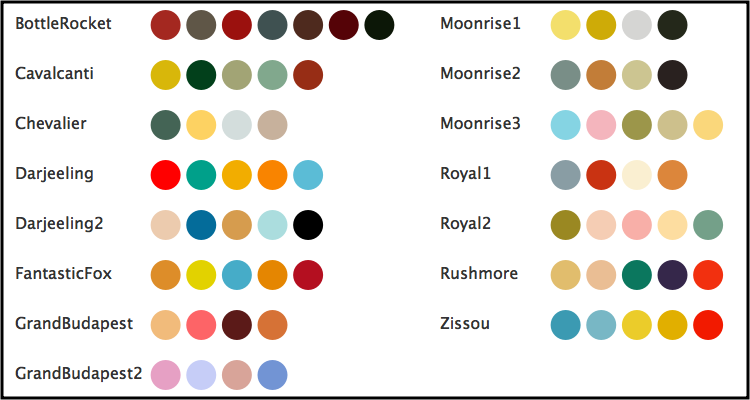
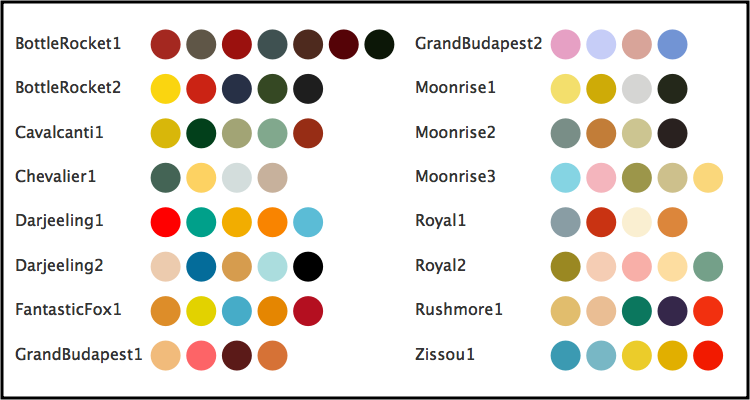
Update for d3 version 4

diff --git a/wes_scales.js b/wes_scales.js
@@ -1,17 +1,17 @@
-// d3 scales for wes anderson palettes
-d3.scale.BottleRocket1=function(){return d3.scale.ordinal().range(["#A42820","#5F5647","#9B110E","#3F5151","#4E2A1E","#550307","#0C1707"]);}
-d3.scale.BottleRocket2=function(){return d3.scale.ordinal().range(["#FAD510","#CB2314","#273046","#354823","#1E1E1E"]);}
-d3.scale.Cavalcanti1=function(){return d3.scale.ordinal().range(["#D8B70A","#02401B","#A2A475","#81A88D","#972D15"]);}
-d3.scale.Chevalier1=function(){return d3.scale.ordinal().range(["#446455","#FDD262","#D3DDDC","#C7B19C"]);}
-d3.scale.Darjeeling1=function(){return d3.scale.ordinal().range(["#FF0000","#00A08A","#F2AD00","#F98400","#5BBCD6"]);}
-d3.scale.Darjeeling2=function(){return d3.scale.ordinal().range(["#ECCBAE","#046C9A","#D69C4E","#ABDDDE","#000000"]);}
-d3.scale.FantasticFox1=function(){return d3.scale.ordinal().range(["#DD8D29","#E2D200","#46ACC8","#E58601","#B40F20"]);}
-d3.scale.GrandBudapest1=function(){return d3.scale.ordinal().range(["#F1BB7B","#FD6467","#5B1A18","#D67236"]);}
-d3.scale.GrandBudapest2=function(){return d3.scale.ordinal().range(["#E6A0C4","#C6CDF7","#D8A499","#7294D4"]);}
-d3.scale.Moonrise1=function(){return d3.scale.ordinal().range(["#F3DF6C","#CEAB07","#D5D5D3","#24281A"]);}
-d3.scale.Moonrise2=function(){return d3.scale.ordinal().range(["#798E87","#C27D38","#CCC591","#29211F"]);}
-d3.scale.Moonrise3=function(){return d3.scale.ordinal().range(["#85D4E3","#F4B5BD","#9C964A","#CDC08C","#FAD77B"]);}
-d3.scale.Royal1=function(){return d3.scale.ordinal().range(["#899DA4","#C93312","#FAEFD1","#DC863B"]);}
-d3.scale.Royal2=function(){return d3.scale.ordinal().range(["#9A8822","#F5CDB4","#F8AFA8","#FDDDA0","#74A089"]);}
-d3.scale.Rushmore1=function(){return d3.scale.ordinal().range(["#E1BD6D","#EABE94","#0B775E","#35274A","#F2300F"]);}
-d3.scale.Zissou1=function(){return d3.scale.ordinal().range(["#3B9AB2","#78B7C5","#EBCC2A","#E1AF00","#F21A00"]);}
+// d3 v4 scales for wes anderson palettes
+d3.scaleBottleRocket1=function(){return d3.scaleOrdinal().range(["#A42820","#5F5647","#9B110E","#3F5151","#4E2A1E","#550307","#0C1707"]);}
+d3.scaleBottleRocket2=function(){return d3.scaleOrdinal().range(["#FAD510","#CB2314","#273046","#354823","#1E1E1E"]);}
+d3.scaleCavalcanti1=function(){return d3.scaleOrdinal().range(["#D8B70A","#02401B","#A2A475","#81A88D","#972D15"]);}
+d3.scaleChevalier1=function(){return d3.scaleOrdinal().range(["#446455","#FDD262","#D3DDDC","#C7B19C"]);}
+d3.scaleDarjeeling1=function(){return d3.scaleOrdinal().range(["#FF0000","#00A08A","#F2AD00","#F98400","#5BBCD6"]);}
+d3.scaleDarjeeling2=function(){return d3.scaleOrdinal().range(["#ECCBAE","#046C9A","#D69C4E","#ABDDDE","#000000"]);}
+d3.scaleFantasticFox1=function(){return d3.scaleOrdinal().range(["#DD8D29","#E2D200","#46ACC8","#E58601","#B40F20"]);}
+d3.scaleGrandBudapest1=function(){return d3.scaleOrdinal().range(["#F1BB7B","#FD6467","#5B1A18","#D67236"]);}
+d3.scaleGrandBudapest2=function(){return d3.scaleOrdinal().range(["#E6A0C4","#C6CDF7","#D8A499","#7294D4"]);}
+d3.scaleMoonrise1=function(){return d3.scaleOrdinal().range(["#F3DF6C","#CEAB07","#D5D5D3","#24281A"]);}
+d3.scaleMoonrise2=function(){return d3.scaleOrdinal().range(["#798E87","#C27D38","#CCC591","#29211F"]);}
+d3.scaleMoonrise3=function(){return d3.scaleOrdinal().range(["#85D4E3","#F4B5BD","#9C964A","#CDC08C","#FAD77B"]);}
+d3.scaleRoyal1=function(){return d3.scaleOrdinal().range(["#899DA4","#C93312","#FAEFD1","#DC863B"]);}
+d3.scaleRoyal2=function(){return d3.scaleOrdinal().range(["#9A8822","#F5CDB4","#F8AFA8","#FDDDA0","#74A089"]);}
+d3.scaleRushmore1=function(){return d3.scaleOrdinal().range(["#E1BD6D","#EABE94","#0B775E","#35274A","#F2300F"]);}
+d3.scaleZissou1=function(){return d3.scaleOrdinal().range(["#3B9AB2","#78B7C5","#EBCC2A","#E1AF00","#F21A00"]);}

diff --git a/test/test_wesanderson.js b/test/test_wesanderson.js
@@ -1,4 +1,4 @@
-// Generated by CoffeeScript 1.9.1
+// Generated by CoffeeScript 1.11.1
 var bgrect, circhoffset, dark_colors, has_dark, height, hoffset, hscale, indent, index, max_length, n_per_col, pal, palettes, radius, svg, text, textwidth, vscale, vscaleL, vscaleR, width;
 
 height = 400;
@@ -22,11 +22,11 @@ palettes = Object.keys(wes_palettes);
 
 n_per_col = Math.ceil(palettes.length / 2);
 
-vscaleL = d3.scale.ordinal().domain(d3.range(n_per_col)).rangePoints([0, height], 1);
+vscaleL = d3.scalePoint().domain(d3.range(n_per_col)).range([0, height]).padding(1);
 
-vscaleR = d3.scale.ordinal().domain(d3.range(n_per_col).map(function(d) {
+vscaleR = d3.scalePoint().domain(d3.range(n_per_col).map(function(d) {
   return d + n_per_col;
-})).rangePoints([0, height], 1);
+})).range([0, height]).padding(1);
 
 vscale = function(d) {
   if (d < n_per_col) {
@@ -39,7 +39,7 @@ hoffset = function(d) {
   if (d < n_per_col) {
     return indent;
   }
-  return indent + 25 + width / 2;
+  return indent + width / 2;
 };
 
 circhoffset = function(d) {
@@ -61,7 +61,7 @@ max_length = d3.max(palettes.map(function(pal) {
   return wes_palettes[pal].length;
 }));
 
-hscale = d3.scale.ordinal().domain(d3.range(max_length)).rangePoints([textwidth, width / 2], 2);
+hscale = d3.scalePoint().domain(d3.range(max_length)).range([textwidth, width / 2]).padding(1);
 
 dark_colors = {
   BottleRocket: [4, 5, 6],

diff --git a/test/index.html b/test/index.html
@@ -3,7 +3,7 @@
 <head>
     <meta charset="utf-8">
     <title>Wes Anderson Palettes</title>
-    <script charset="utf-8" type="text/javascript" src="http://d3js.org/d3.v3.min.js"></script>
+    <script charset="utf-8" type="text/javascript" src="http://d3js.org/d3.v4.min.js"></script>
     <script type="text/javascript" src="../wesanderson.js"></script>
     <script type="text/javascript" src="../wes_scales.js"></script>
     <link rel=stylesheet type="text/css" href="style.css">
